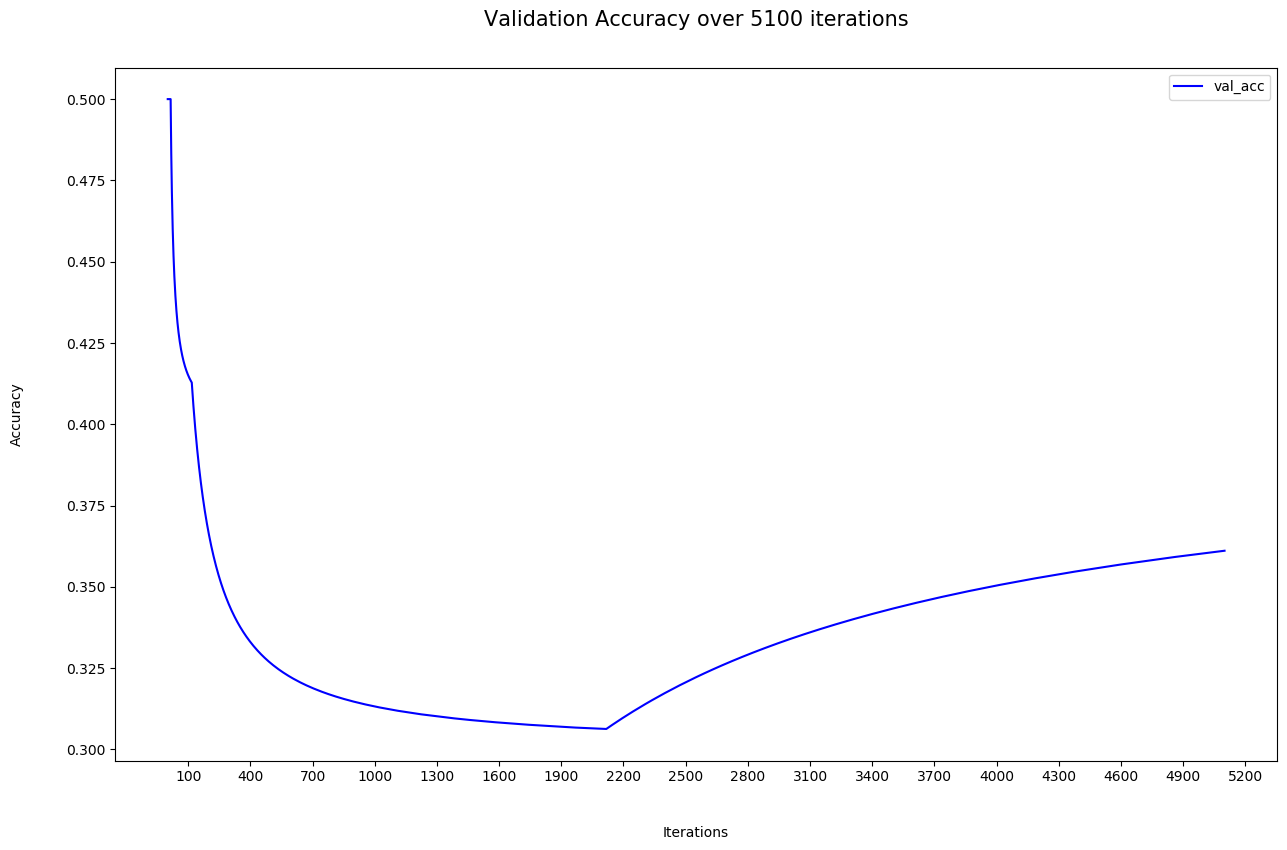
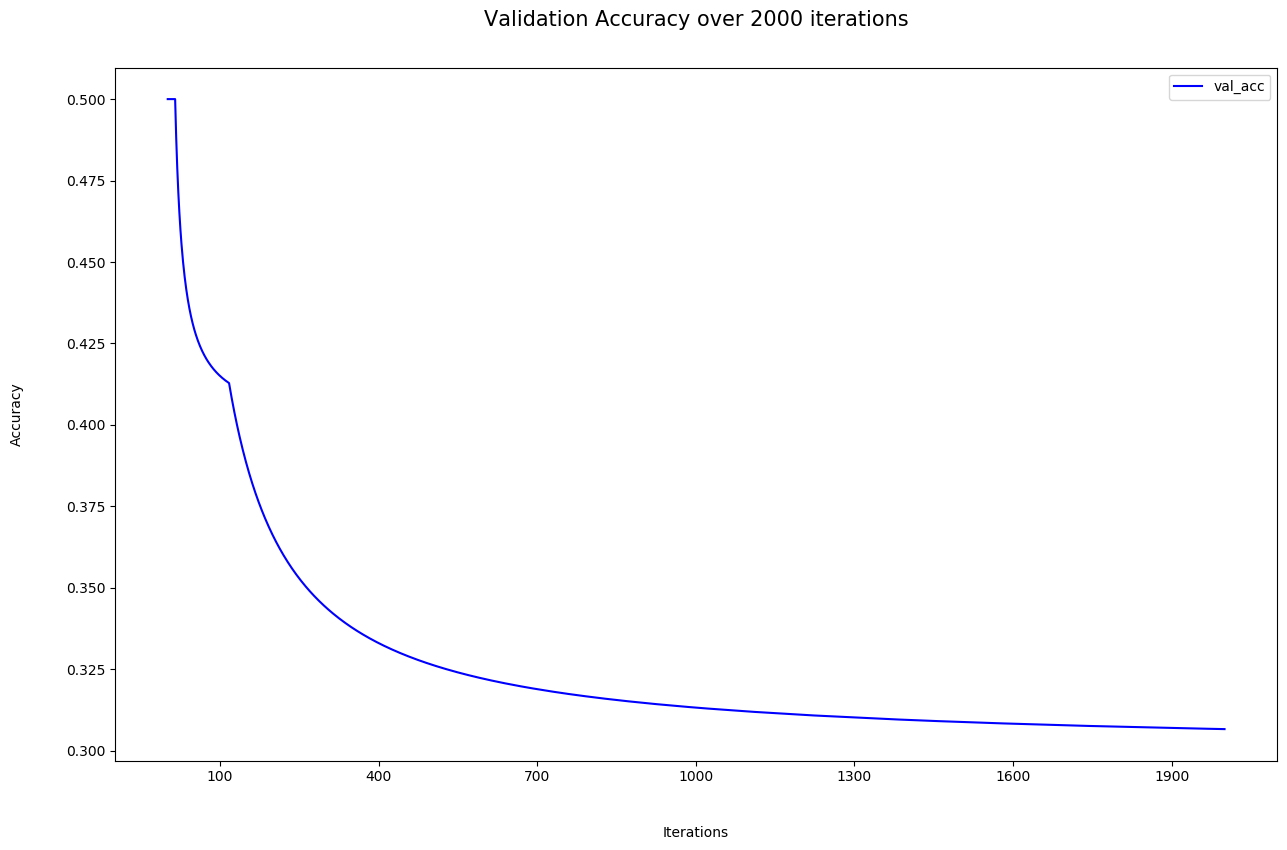
Code Restructuring and improvements

diff --git a/src/loss_functions/cross_entropy_loss.c b/src/loss_functions/cross_entropy_loss.c
@@ -5,16 +5,7 @@ extern __Model__ * m;
 cross_entropy_loss_layer * loss_layer = NULL;
 
 void forward_pass_L2_LOSS(){
-  // printf("output : \n");
-  //   for(int i=0;i<m->output->shape[0];i++){
-  //     for(int j=0;j<m->output->shape[1];j++){
-  //       printf("%lf ",m->output->matrix[i*m->output->shape[1]+j]);
-  //     }
-  //     printf("\n");
-  //   }
-  // shape(m->output);
   //Store the number of training examples in a variable
-  // printf("loss forward\n");
   int number_of_examples = m->Y_train->shape[1];
   dARRAY * Y = loss_layer->gnd_truth;
   //we will also store prev layer activation dims
@@ -24,21 +15,12 @@ void forward_pass_L2_LOSS(){
   log_y_hat = (dARRAY *)malloc(sizeof(dARRAY));
   log_y_hat->matrix = (double*)calloc(act_dims[0]*act_dims[1],sizeof(double));
   //calculate log(y_pred)
-  // omp_set_num_threads(4);
-  // #pragma omp parallel for
+  #pragma omp parallel for num_threads(8)
   for(int i=0;i<act_dims[0]*act_dims[1];i++){
     log_y_hat->matrix[i] = log(m->output->matrix[i]);
   }
   log_y_hat->shape[0] = act_dims[0];
   log_y_hat->shape[1] = act_dims[1];
-  // printf("log_y_hat : \n");
-  // for(int i=0;i<log_y_hat->shape[0];i++){
-  //   for(int j=0;j<log_y_hat->shape[1];j++){
-  //     printf("%lf ",log_y_hat->matrix[i*log_y_hat->shape[1]+j]);
-  //   }
-  //   printf("\n");
-  // }
-  // shape(log_y_hat);
   //calculating (1-y_pred)
   dARRAY * temp_ones = ones(act_dims);
   dARRAY * temp_sub = subtract(temp_ones,m->output);
@@ -47,21 +29,12 @@ void forward_pass_L2_LOSS(){
   log_one_y_hat = (dARRAY *)malloc(sizeof(dARRAY));
   log_one_y_hat->matrix = (double*)calloc(act_dims[0]*act_dims[1],sizeof(double));
   //calculate log(1-y_pred)
-  // omp_set_num_threads(4);
-  // #pragma omp parallel for
+  #pragma omp parallel for num_threads(8)
   for(int i=0;i<act_dims[0]*act_dims[1];i++){
     log_one_y_hat->matrix[i] = log(temp_sub->matrix[i]);
   }
   log_one_y_hat->shape[0] = act_dims[0];
   log_one_y_hat->shape[1] = act_dims[1];
-  // printf("log_one_y_hat : \n");
-  // for(int i=0;i<log_one_y_hat->shape[0];i++){
-  //   for(int j=0;j<log_one_y_hat->shape[1];j++){
-  //     printf("%lf ",log_one_y_hat->matrix[i*log_one_y_hat->shape[1]+j]);
-  //   }
-  //   printf("\n");
-  // }
-  // shape(log_one_y_hat);
   free2d(temp_sub);
   temp_sub = NULL;
   //calculate y*log(y^)
@@ -91,13 +64,6 @@ void forward_pass_L2_LOSS(){
   free2d(loss_term_1);
   free2d(loss_term_2);
   loss_term_1 = loss_term_2 = NULL;
-  // printf("loss : \n");
-  // for(int i=0;i<loss->shape[0];i++){
-  //   for(int j=0;j<loss->shape[1];j++){
-  //     printf("%lf ",loss->matrix[i*loss->shape[1]+j]);
-  //   }
-  //   printf("\n");
-  // }
   dARRAY * sum_of_losses = sum(loss,1);
 
   free2d(loss);
@@ -153,37 +119,14 @@ void forward_pass_L2_LOSS(){
     cost = NULL;
     m->iter_cost = total_cost;
   }
-  // double loss1 = (m->Y_train->matrix[0] * log(m->output->matrix[0])) + ((1-m->Y_train->matrix[0])*log((1-m->output->matrix[0])));
-  // printf("loss 1 : %lf\n",loss1);
-  // double loss2 = (m->Y_train->matrix[1] * log(m->output->matrix[1])) + ((1-m->Y_train->matrix[1])*log((1-m->output->matrix[1])));
-  // printf("loss 2 : %lf\n",loss2);
-  // double cost_manual = -1*(loss1+loss2)/(double)m->num_of_training_examples;
-  // printf("cost using manual method : %lf\n",cost_manual);
-  // printf("loss forward done\n");
 }
 
 void backward_pass_L2_LOSS(){
-  // dARRAY * lgrad1 = divison(m->Y_train,m->output);
-
   int act_dims[] = {m->output->shape[0],m->output->shape[1]};
   dARRAY * one = ones(act_dims);
   dARRAY * temp1 = subtract(m->Y_train,m->output);
-  // printf("Y-A : \n");
-  // for(int i=0;i<temp1->shape[0];i++){
-  //   for(int j=0;j<temp1->shape[1];j++){
-  //     printf("%lf ",temp1->matrix[i*temp1->shape[1]+j]);
-  //   }
-  //   printf("\n");
-  // }
   dARRAY * temp2 = subtract(one,m->output);
   dARRAY * temp3 = multiply(m->output,temp2);
-  // printf("A(1-A) : \n");
-  // for(int i=0;i<temp3->shape[0];i++){
-  //   for(int j=0;j<temp3->shape[1];j++){
-  //     printf("%lf ",temp3->matrix[i*temp3->shape[1]+j]);
-  //   }
-  //   printf("\n");
-  // }
   free2d(one);
   one = NULL;
 
@@ -194,20 +137,8 @@ void backward_pass_L2_LOSS(){
   free2d(temp3);
   temp1 = temp2 = temp3 = NULL;
 
-  // dARRAY * temp_local_grad = subtract(lgrad1,lgrad2);
   loss_layer->grad_out = mulScalar(lgrad2,-1.0);
-  // printf("Grad Out : \n");
-  // for(int i=0;i<loss_layer->grad_out->shape[0];i++){
-  //   for(int j=0;j<loss_layer->grad_out->shape[1];j++){
-  //     printf("%lf ",loss_layer->grad_out->matrix[i*loss_layer->grad_out->shape[1]+j]);
-  //   }
-  //   printf("\n");
-  // }
-
-  // free2d(lgrad1);
   free2d(lgrad2);
-  // free2d(temp_local_grad);
-  // lgrad1 = lgrad2 = temp_local_grad = NULL;
   lgrad2 = NULL;
 }
 

diff --git a/src/model/model.c b/src/model/model.c
@@ -374,7 +374,7 @@ void __save_model__(char * filename){
   fp = NULL;
 }
 
-void load_x_train(int * dims){
+dARRAY * load_x_train(int * dims){
   FILE * fp = NULL;
   fp = fopen("./data/X_train.data","rb");
   if(fp==NULL){
@@ -389,13 +389,14 @@ void load_x_train(int * dims){
   x_train->shape[0] = dims[1];
   x_train->shape[1] = dims[0];
 
-  m->x_train = transpose(x_train);
+  dARRAY * X_train = transpose(x_train);
   free2d(x_train);
   x_train = NULL;
   fclose(fp);
+  return X_train;
 }
 
-void load_y_train(int * dims){
+dARRAY * load_y_train(int * dims){
   FILE * fp = NULL;
   fp = fopen("./data/y_train.data","rb");
   if(fp==NULL){
@@ -410,13 +411,14 @@ void load_y_train(int * dims){
   Y_train->shape[0] = dims[1];
   Y_train->shape[1] = dims[0];
 
-  m->Y_train = transpose(Y_train);
+  dARRAY * y_train = transpose(Y_train);
   free2d(Y_train);
   Y_train = NULL;
   fclose(fp);
+  return y_train;
 }
 
-void load_x_cv(int * dims){
+dARRAY * load_x_cv(int * dims){
   FILE * fp = NULL;
   fp = fopen("./data/X_cv.data","rb");
   if(fp==NULL){
@@ -431,13 +433,14 @@ void load_x_cv(int * dims){
   x_cv->shape[0] = dims[1];
   x_cv->shape[1] = dims[0];
 
-  m->x_cv = transpose(x_cv);
+  dARRAY * X_CV = transpose(x_cv);
   free2d(x_cv);
   x_cv = NULL;
   fclose(fp);
+  return X_CV;
 }
 
-void load_y_cv(int * dims){
+dARRAY * load_y_cv(int * dims){
   FILE * fp = NULL;
   fp = fopen("./data/y_cv.data","rb");
   if(fp==NULL){
@@ -452,13 +455,14 @@ void load_y_cv(int * dims){
   Y_cv->shape[0] = dims[1];
   Y_cv->shape[1] = dims[0];
 
-  m->Y_cv = transpose(Y_cv);
+  dARRAY * y_cv = transpose(Y_cv);
   free2d(Y_cv);
   Y_cv = NULL;
   fclose(fp);
+  return y_cv;
 }
 
-void load_x_test(int * dims){
+dARRAY * load_x_test(int * dims){
   FILE * fp = NULL;
   fp = fopen("./data/X_test.data","rb");
   if(fp==NULL){
@@ -472,13 +476,14 @@ void load_x_test(int * dims){
   }
   x_test_temp->shape[0] = dims[1];
   x_test_temp->shape[1] = dims[0];
-  m->x_test = transpose(x_test_temp);
+  dARRAY * x_test = transpose(x_test_temp);
   free2d(x_test_temp);
   x_test_temp = NULL;
   fclose(fp);
+  return x_test;
 }
 
-void load_y_test(int * dims){
+dARRAY * load_y_test(int * dims){
   FILE * fp = NULL;
   fp = fopen("./data/y_test.data","rb");
   if(fp==NULL){
@@ -493,10 +498,11 @@ void load_y_test(int * dims){
   Y_test->shape[0] = dims[1];
   Y_test->shape[1] = dims[0];
 
-  m->Y_test = transpose(Y_test);
+  dARRAY * y_test = transpose(Y_test);
   free2d(Y_test);
   Y_test = NULL;
   fclose(fp);
+  return y_test;
 }
 
 dARRAY * load_test_image(char * filename){

diff --git a/src/test/test_network.c b/src/test/test_network.c
@@ -7,34 +7,41 @@ int main(){
   create_model();
   
   int x_train_dims[] = {12288,10};
-  load_x_train(x_train_dims);
+  dARRAY * x_train = load_x_train(x_train_dims);
+
   int x_cv_dims[] = {12288,10};
-  load_x_cv(x_cv_dims);
+  dARRAY * x_cv = load_x_cv(x_cv_dims);
+  
   int y_train_dims[] = {1,10};
-  load_y_train(y_train_dims);
+  dARRAY * y_train = load_y_train(y_train_dims);
+  
   int y_cv_dims[] = {1,10};
-  load_y_cv(y_cv_dims);
+  dARRAY * y_cv = load_y_cv(y_cv_dims);
   
   int x_test_dims[] = {12288,10};
   int y_test_dims[] = {1,10};
 
-  load_x_test(x_test_dims);
-  load_y_test(y_test_dims);
+  dARRAY * x_test = load_x_test(x_test_dims);
+  dARRAY * y_test = load_y_test(y_test_dims);
 
   Input(.layer_size=12288);
   Dense(.layer_size=64,.activation="relu",.initializer="he",.layer_type="hidden",.dropout=0.5);
   Dense(.layer_size=32,.activation="relu",.initializer="he",.layer_type="hidden",.dropout=0.5);
   Dense(.layer_size=1,.activation="sigmoid",.initializer="random",.layer_type="output");
-  Model(.x_train=m->x_train,.Y_train=m->Y_train,.x_cv=m->x_cv,.Y_cv=m->Y_cv,.x_test=m->x_test,.Y_test=m->Y_test,\
-        .num_iter=2000,.learning_rate=3e-4,.regularization="L2",.lambda=5e-4,.optimizer="adam",.checkpoint_every=1000);
+  Model(.x_train=x_train,.Y_train=y_train,.x_cv=x_cv,.Y_cv=y_cv,.x_test=x_test,.Y_test=y_test,\
+        .num_iter=2000,.learning_rate=3e-4,.regularization="L2",.lambda=5e-4,.optimizer="SGD",.checkpoint_every=-1
+       );
+
   m->fit();
-  m->save_model("DOGS_VS_CATS.t7");
+  // m->save_model("DOGS_VS_CATS.t7");
   m->test();
-  m->load_model("DOGS_VS_CATS.t7");
+  // m->load_model("DOGS_VS_CATS.t7");
+
   dARRAY * test_img1 = load_test_image("test_img1.data");
   dARRAY * test_img2 = load_test_image("test_img2.data");
   m->predict(test_img1);
   m->predict(test_img2);
+  
   free2d(test_img1);
   free2d(test_img2);
   plot_train_scores();

diff --git a/src/activations/relu.c b/src/activations/relu.c
@@ -1,5 +1,5 @@
-#include "../activations.h"
-#include "../../../model/model.h"
+#include "./activations.h"
+#include "../model/model.h"
 
 extern __Model__ * m;
 
@@ -17,13 +17,6 @@ dARRAY * forward_pass_relu(){
 }
 
 dARRAY * backward_pass_relu(){
-  // printf("Current layer's (relu) activation : \n");
-  // for(int i=0;i<m->current_layer->DENSE->A->shape[0];i++){
-  //   for(int j=0;j<m->current_layer->DENSE->A->shape[1];j++){
-  //     printf("%lf ",m->current_layer->DENSE->A->matrix[i*m->current_layer->DENSE->A->shape[1]+j]);
-  //   }
-  //   printf("\n");
-  // }
   dARRAY * relu_outb = NULL;
   relu_outb = (dARRAY*)malloc(sizeof(dARRAY));
   relu_outb->matrix = (double*)calloc(m->current_layer->DENSE->A->shape[0]*m->current_layer->DENSE->A->shape[1],sizeof(double));
@@ -54,4 +47,3 @@ dARRAY * (relu)(ReLu_args args){
   free(r);
   r = NULL;
 }
-

diff --git a/src/model/model.h b/src/model/model.h
@@ -53,12 +53,12 @@ extern "C"{
   dARRAY * relu_val(dARRAY * linear_matrix);
   dARRAY * sigmoid_val(dARRAY * linear_matrix);
   dARRAY * tanh_val(dARRAY * linear_matrix);
-  void load_x_train(int * dims);
-  void load_y_train(int * dims);
-  void load_x_cv(int * dims);
-  void load_y_cv(int * dims);
-  void load_x_test(int * dims);
-  void load_y_test(int * dims);
+  dARRAY * load_x_train(int * dims);
+  dARRAY * load_y_train(int * dims);
+  dARRAY * load_x_cv(int * dims);
+  dARRAY * load_y_cv(int * dims);
+  dARRAY * load_x_test(int * dims);
+  dARRAY * load_y_test(int * dims);
   dARRAY * load_test_image(char * filename);
   void (destroy_model)();
 #ifdef __cplusplus

diff --git a/src/activations/sigmoid.c b/src/activations/sigmoid.c
@@ -1,5 +1,5 @@
-#include "../activations.h"
-#include "../../../model/model.h"
+#include "./activations.h"
+#include "../model/model.h"
 
 extern __Model__ * m;
 
@@ -17,13 +17,6 @@ dARRAY * forward_pass_sigmoid(){
 }
 
 dARRAY * backward_pass_sigmoid(){
-  // printf("Current layer's (sigmoid) activation : \n");
-  // for(int i=0;i<m->current_layer->DENSE->A->shape[0];i++){
-  //   for(int j=0;j<m->current_layer->DENSE->A->shape[1];j++){
-  //     printf("%lf ",m->current_layer->DENSE->A->matrix[i*m->current_layer->DENSE->A->shape[1]+j]);
-  //   }
-  //   printf("\n");
-  // }
   dARRAY * sigmoid_outb = NULL;
   dARRAY * temp = NULL;
   dARRAY * one = NULL;

diff --git a/src/plot/Plot_cost_acc.py b/src/plot/Plot_cost_acc.py
@@ -80,7 +80,7 @@ plt.xticks(ticks=ticks,fontsize=7)
 plt.yticks(fontsize=7)
 plt.legend()
 plt.title("Model Metrics over "+sys.argv[1]+" iterations",pad=30,fontsize=15)
-plt.savefig('acc.png', bbox_inches='tight')
+plt.savefig('Model_Metrics.png', bbox_inches='tight')
 
 
 os.remove(COST_PATH)

diff --git a/src/layers/Dense.h b/src/layers/Dense.h
@@ -2,7 +2,7 @@
 #define DENSE_LAYER_H_
 
 #include "../utils/utils.h"
-#include "../utils/Activations/activations.h"
+#include "../activations/activations.h"
 
 typedef struct dense_arg{
   int layer_size;

diff --git a/src/activations/tanh.c b/src/activations/tanh.c
@@ -1,5 +1,5 @@
-#include "../activations.h"
-#include "../../../model/model.h"
+#include "./activations.h"
+#include "../model/model.h"
 
 extern __Model__ * m;
 

diff --git a/src/activations/activations.h b/src/activations/activations.h
@@ -1,7 +1,7 @@
 #ifndef ACTIVATIONS_H
 #define ACTIVATIONS_H
 
-#include "../utils.h"
+#include "../utils/utils.h"
 
 typedef struct{
   dARRAY * input;
